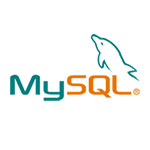
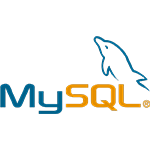
project section template

Changed region(s): [[0.0, 0.2133, 1.0, 0.7733]]

diff --git a/index.html b/index.html
@@ -5,7 +5,7 @@
     <meta name="viewport" content="width=device-width,initial-scale=1">
     <title>David Rodriguez Portfolio</title>
     <meta name="description" content="Portfolio showcasing projects worked on, familiar technologies, and personal interests.">
-    <link href="https://fonts.googleapis.com/css?family=Michroma|Mitr:200|Open+Sans" rel="stylesheet">
+    <link href="https://fonts.googleapis.com/css?family=Mitr:200|Open+Sans|Righteous" rel="stylesheet">
     <link rel="stylesheet" href="css/main.css" type="text/css">
   </head>
 
@@ -27,7 +27,9 @@
       <img class="big_logo" src="images/bigLogo.png" alt="big logo">
       <h1>David Rodriguez</h1>
       <p>Developer &bull; Designer &bull; Do It Yourself-er</p>
-      <a href="#about" class="arrow_box"><img id="arrow" src="images/arrow_down.png" alt="down arrow"></a>
+      <div  class="arrow_box">
+        <a href="#about"><img id="arrow" src="images/arrow_down.png" alt="down arrow"></a>
+      </div>
     </section>
 
     <section id="about">
@@ -57,10 +59,22 @@
         <div class="carousel_item"><img src="images/javascript.png" alt="javascript"></div>
         <div class="carousel_item"><img src="images/jquery.png" alt="jQuery"></div>
         <div class="carousel_item"><img src="images/bootstrap.png" alt="bootstrap"></div>
-        <div class="carousel_item"><img src="images/sql.png" alt="sql"></div>
+        <div class="carousel_item"><img src="images/nodejs.png" alt="node.js"></div>
+        <div class="carousel_item"><img src="images/mysql.png" alt="mySQL"></div>
         <div class="carousel_item"><img src="images/git.png" alt="git"></div>
         <div class="carousel_item"><img src="images/photoshop.png" alt="photoshop"></div>
         <div class="carousel_item"><img src="images/illustrator.png" alt="illustrator"></div>
+      </div>
+    </section>
+
+    <section id="projects">
+      <h2> Projects </h2>
+      <div class="showcase">
+        <div class="project">?</div>
+        <div class="project">?</div>
+        <div class="project">?</div>
+        <div class="project">?</div>
+        <div class="project">?</div>
       </div>
     </section>
 

diff --git a/css/main.css b/css/main.css
@@ -2,7 +2,7 @@ body {
   min-width: 320px;
   background-attachment: fixed;
   background-position: center;
-  background-image: url("../images/tealBlur.jpg");
+  background-image: url("../images/ocean.jpg");
   background-repeat: no-repeat;
   background-size: cover;
   overflow-x: hidden;
@@ -78,10 +78,6 @@ body {
   }
 
   #logo_anchor {
-    margin-left: 25px;
-  }
-
-  #logo_nav {
     margin-left: 25px;
   }
 
@@ -327,6 +323,54 @@ canvas {
   }
 }
 
+/*/////////////////////// PROJECTS ///////////////////////*/
+
+#projects {
+  background-attachment: fixed;
+  background-position: center;
+  background-image: url("../images/deepsea.png");
+  background-repeat: no-repeat;
+  background-size: cover;
+  padding: 5em;
+  text-align: center;
+}
+
+#projects h2 {
+  margin: auto;
+  border-bottom: 2px solid #222;
+  padding-bottom: .7em;
+  width: 15%;
+}
+
+.showcase {
+  height: 750px;
+  display: flex;
+  justify-content: center;
+}
+
+.project{
+  margin: auto 2rem;
+  width: 250px;
+  height: 500px;
+  border: 5px solid #222;
+  background-color: #444;
+  opacity: 0.5;
+  -webkit-backface-visibility: hidden;
+  transition: transform .5s;
+  transform: skewX(-5deg);
+  font-family: 'Righteous', sans-serif;
+  font-size: 10em;
+  color: #222;
+  text-align: center;
+  display: flex;
+  flex-direction: column;
+  justify-content: center;
+}
+
+.project:hover {
+  transform: scale(1.2,1.2) skewX(-5deg);
+}
+
 /*/////////////////////// FOOTER ///////////////////////*/
 
 #contact {
@@ -335,7 +379,6 @@ canvas {
   text-align: center;
   cursor: default;
   padding: 5em 0em 2em;
-  margin-top: 10em;
 }
 
 .icons {

diff --git a/Javascript/tech_carousel.js b/Javascript/tech_carousel.js
@@ -6,7 +6,7 @@ var pos = [];
 for (var i = 0; i < items.length; i++){
   items[i].style.left = start + 'px';
   pos.push(start);
-  start+= 275;
+  start+= 300;
 }
 
 setInterval(slider, 10);
@@ -14,8 +14,8 @@ setInterval(slider, 10);
 function slider() {
 
   for (var i = 0; i < items.length; i++){
-    if (items[i].style.left == '-250px'){
-      pos[i] = 2500;
+    if (items[i].style.left == '-300px'){
+      pos[i] =  items.length * 300 - 300;
     }
     pos[i]--;
     items[i].style.left = pos[i] + 'px';
